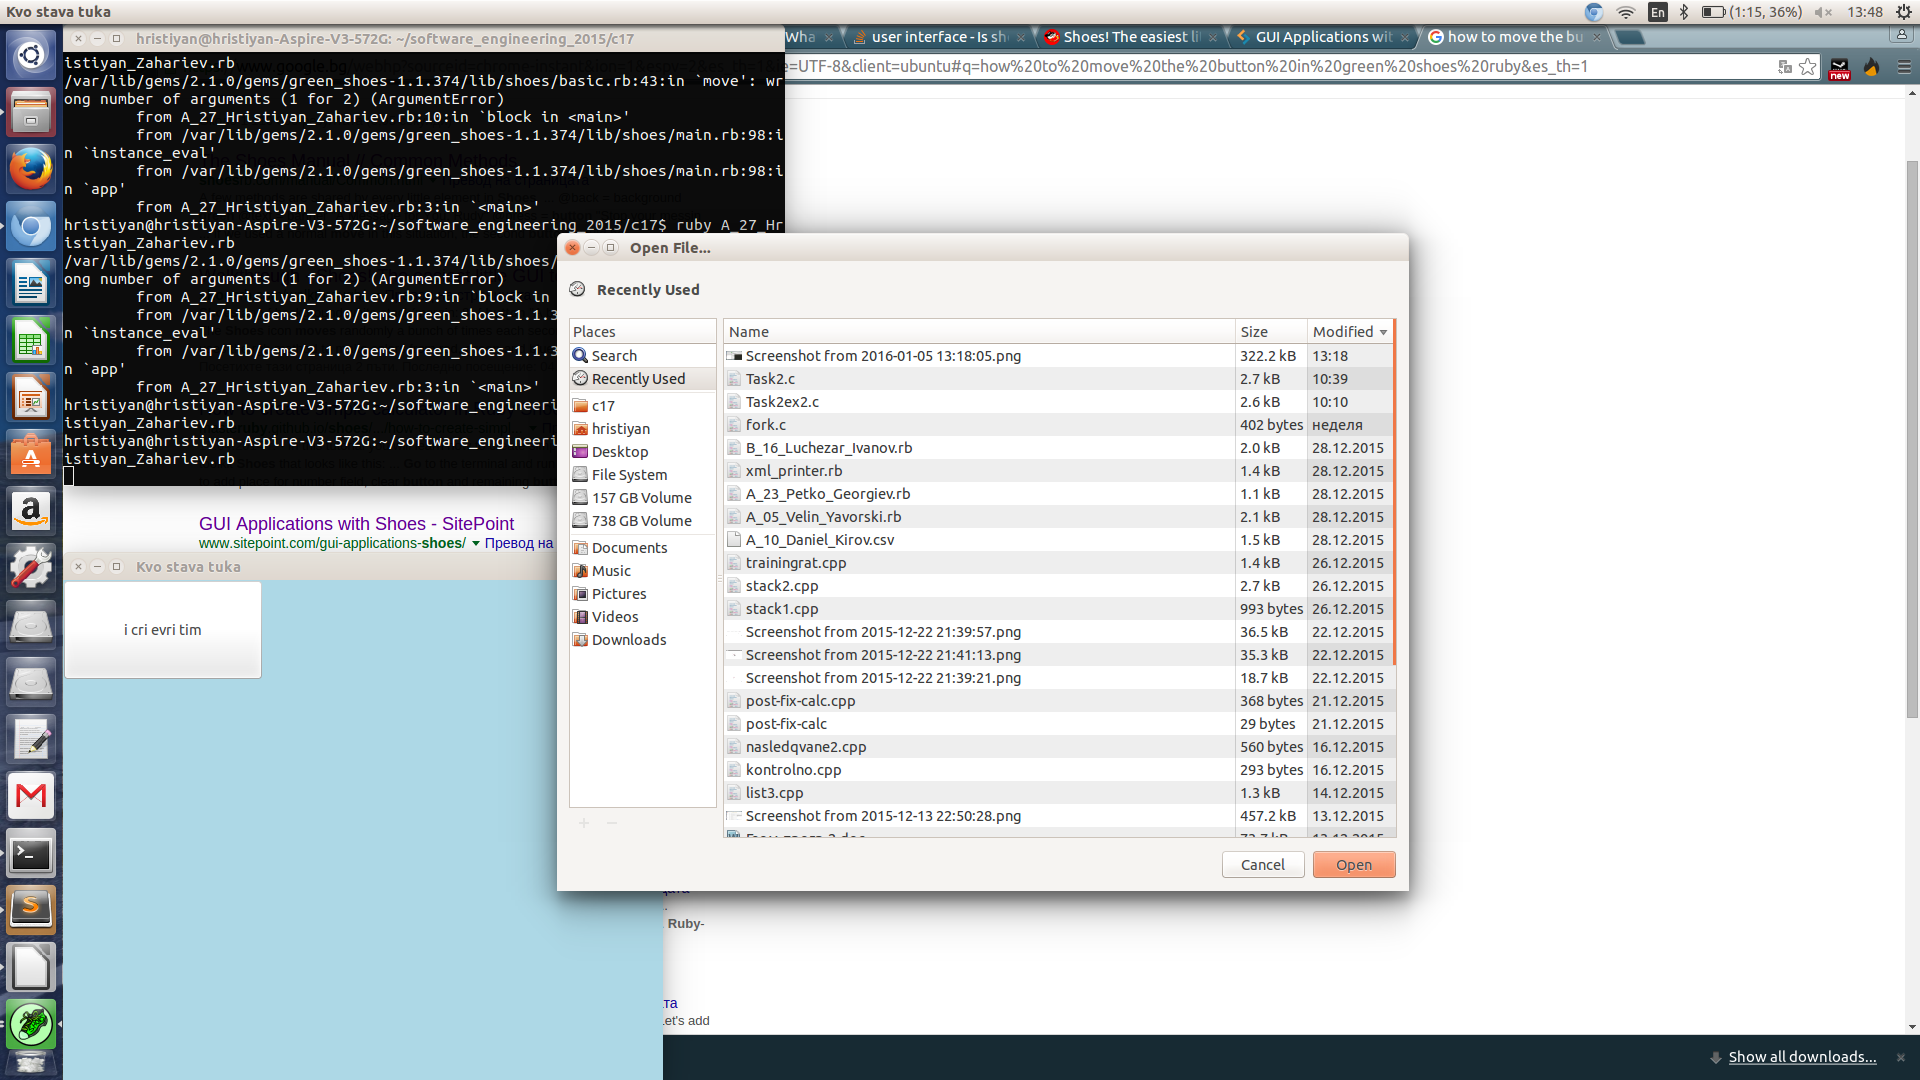
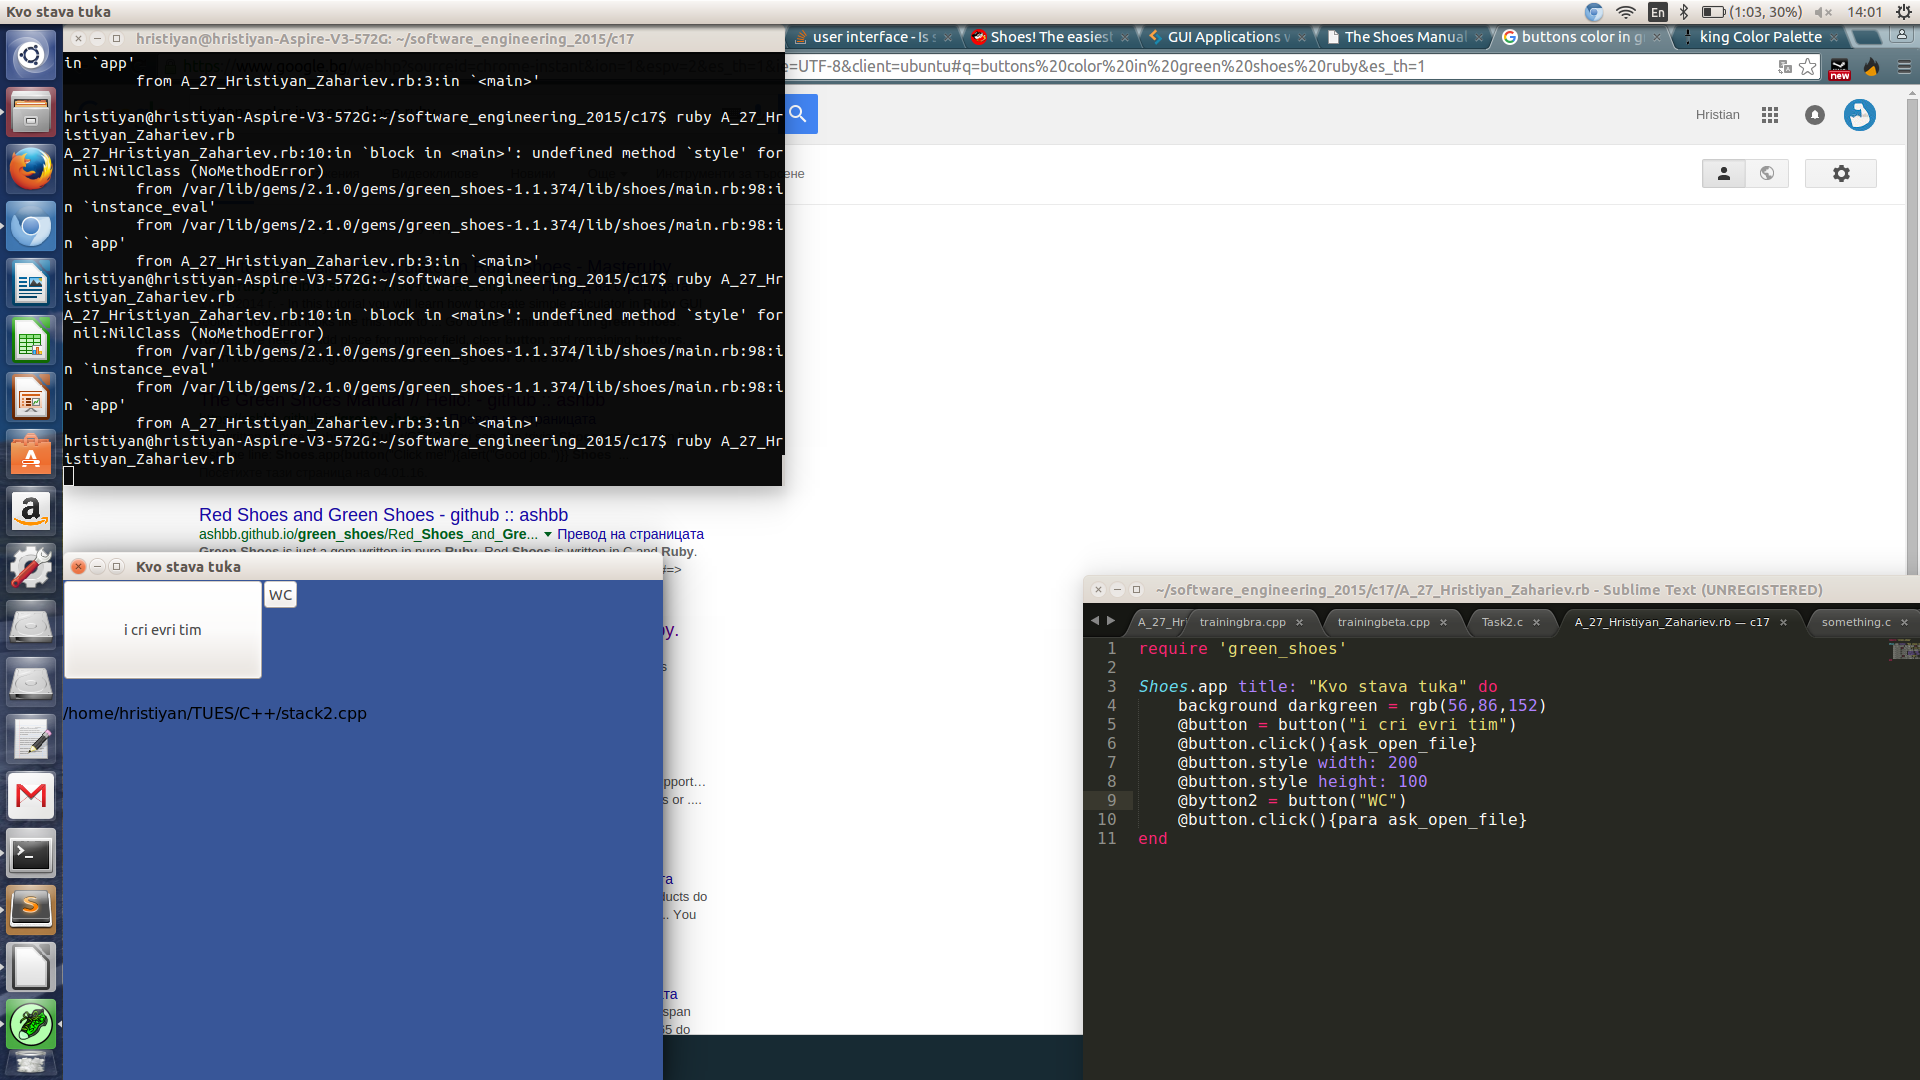
Am I hacker enough?

diff --git a/c17/A_27_Hristiyan_Zahariev.rb b/c17/A_27_Hristiyan_Zahariev.rb
@@ -1,0 +1,11 @@
+require 'green_shoes'
+
+Shoes.app title: "Kvo stava tuka" do
+  	background darkgreen = rgb(56,86,152)
+    @button = button("i cri evri tim")
+    @button.click(){ask_open_file}
+    @button.style width: 200
+   	@button.style height: 100 
+   	@bytton2 = button("WC")
+   	@button.click(){para ask_open_file}
+end
